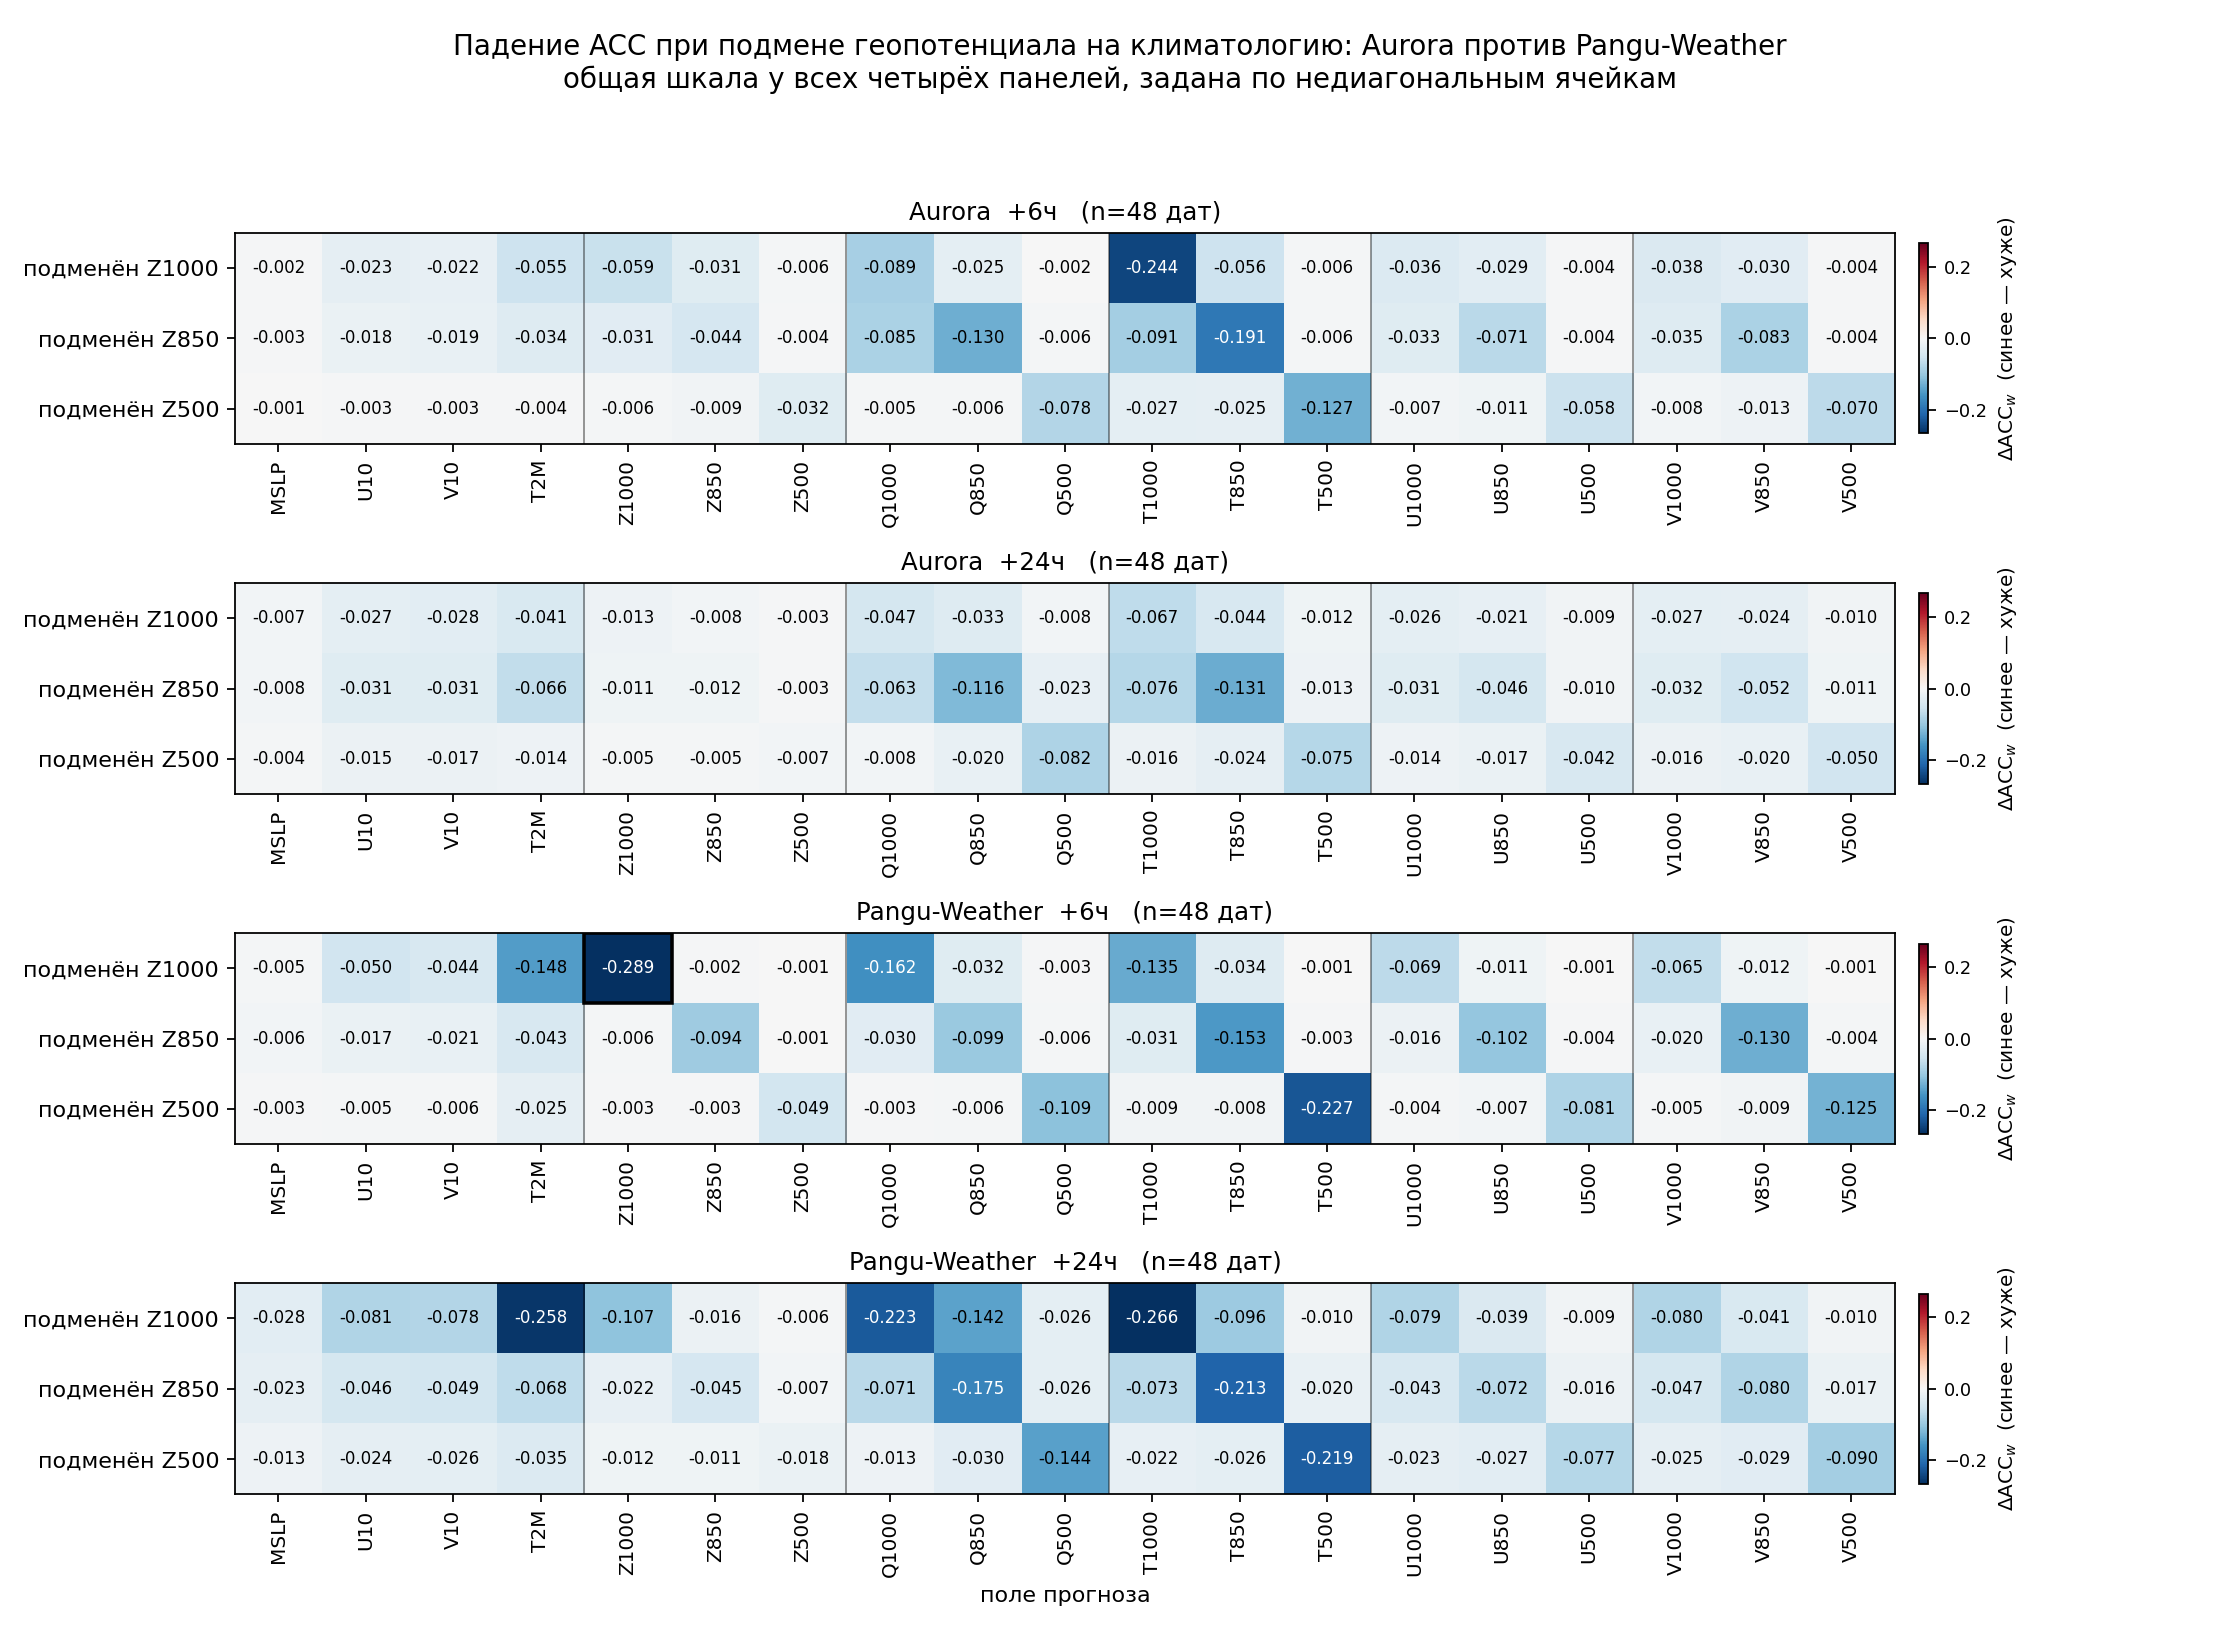
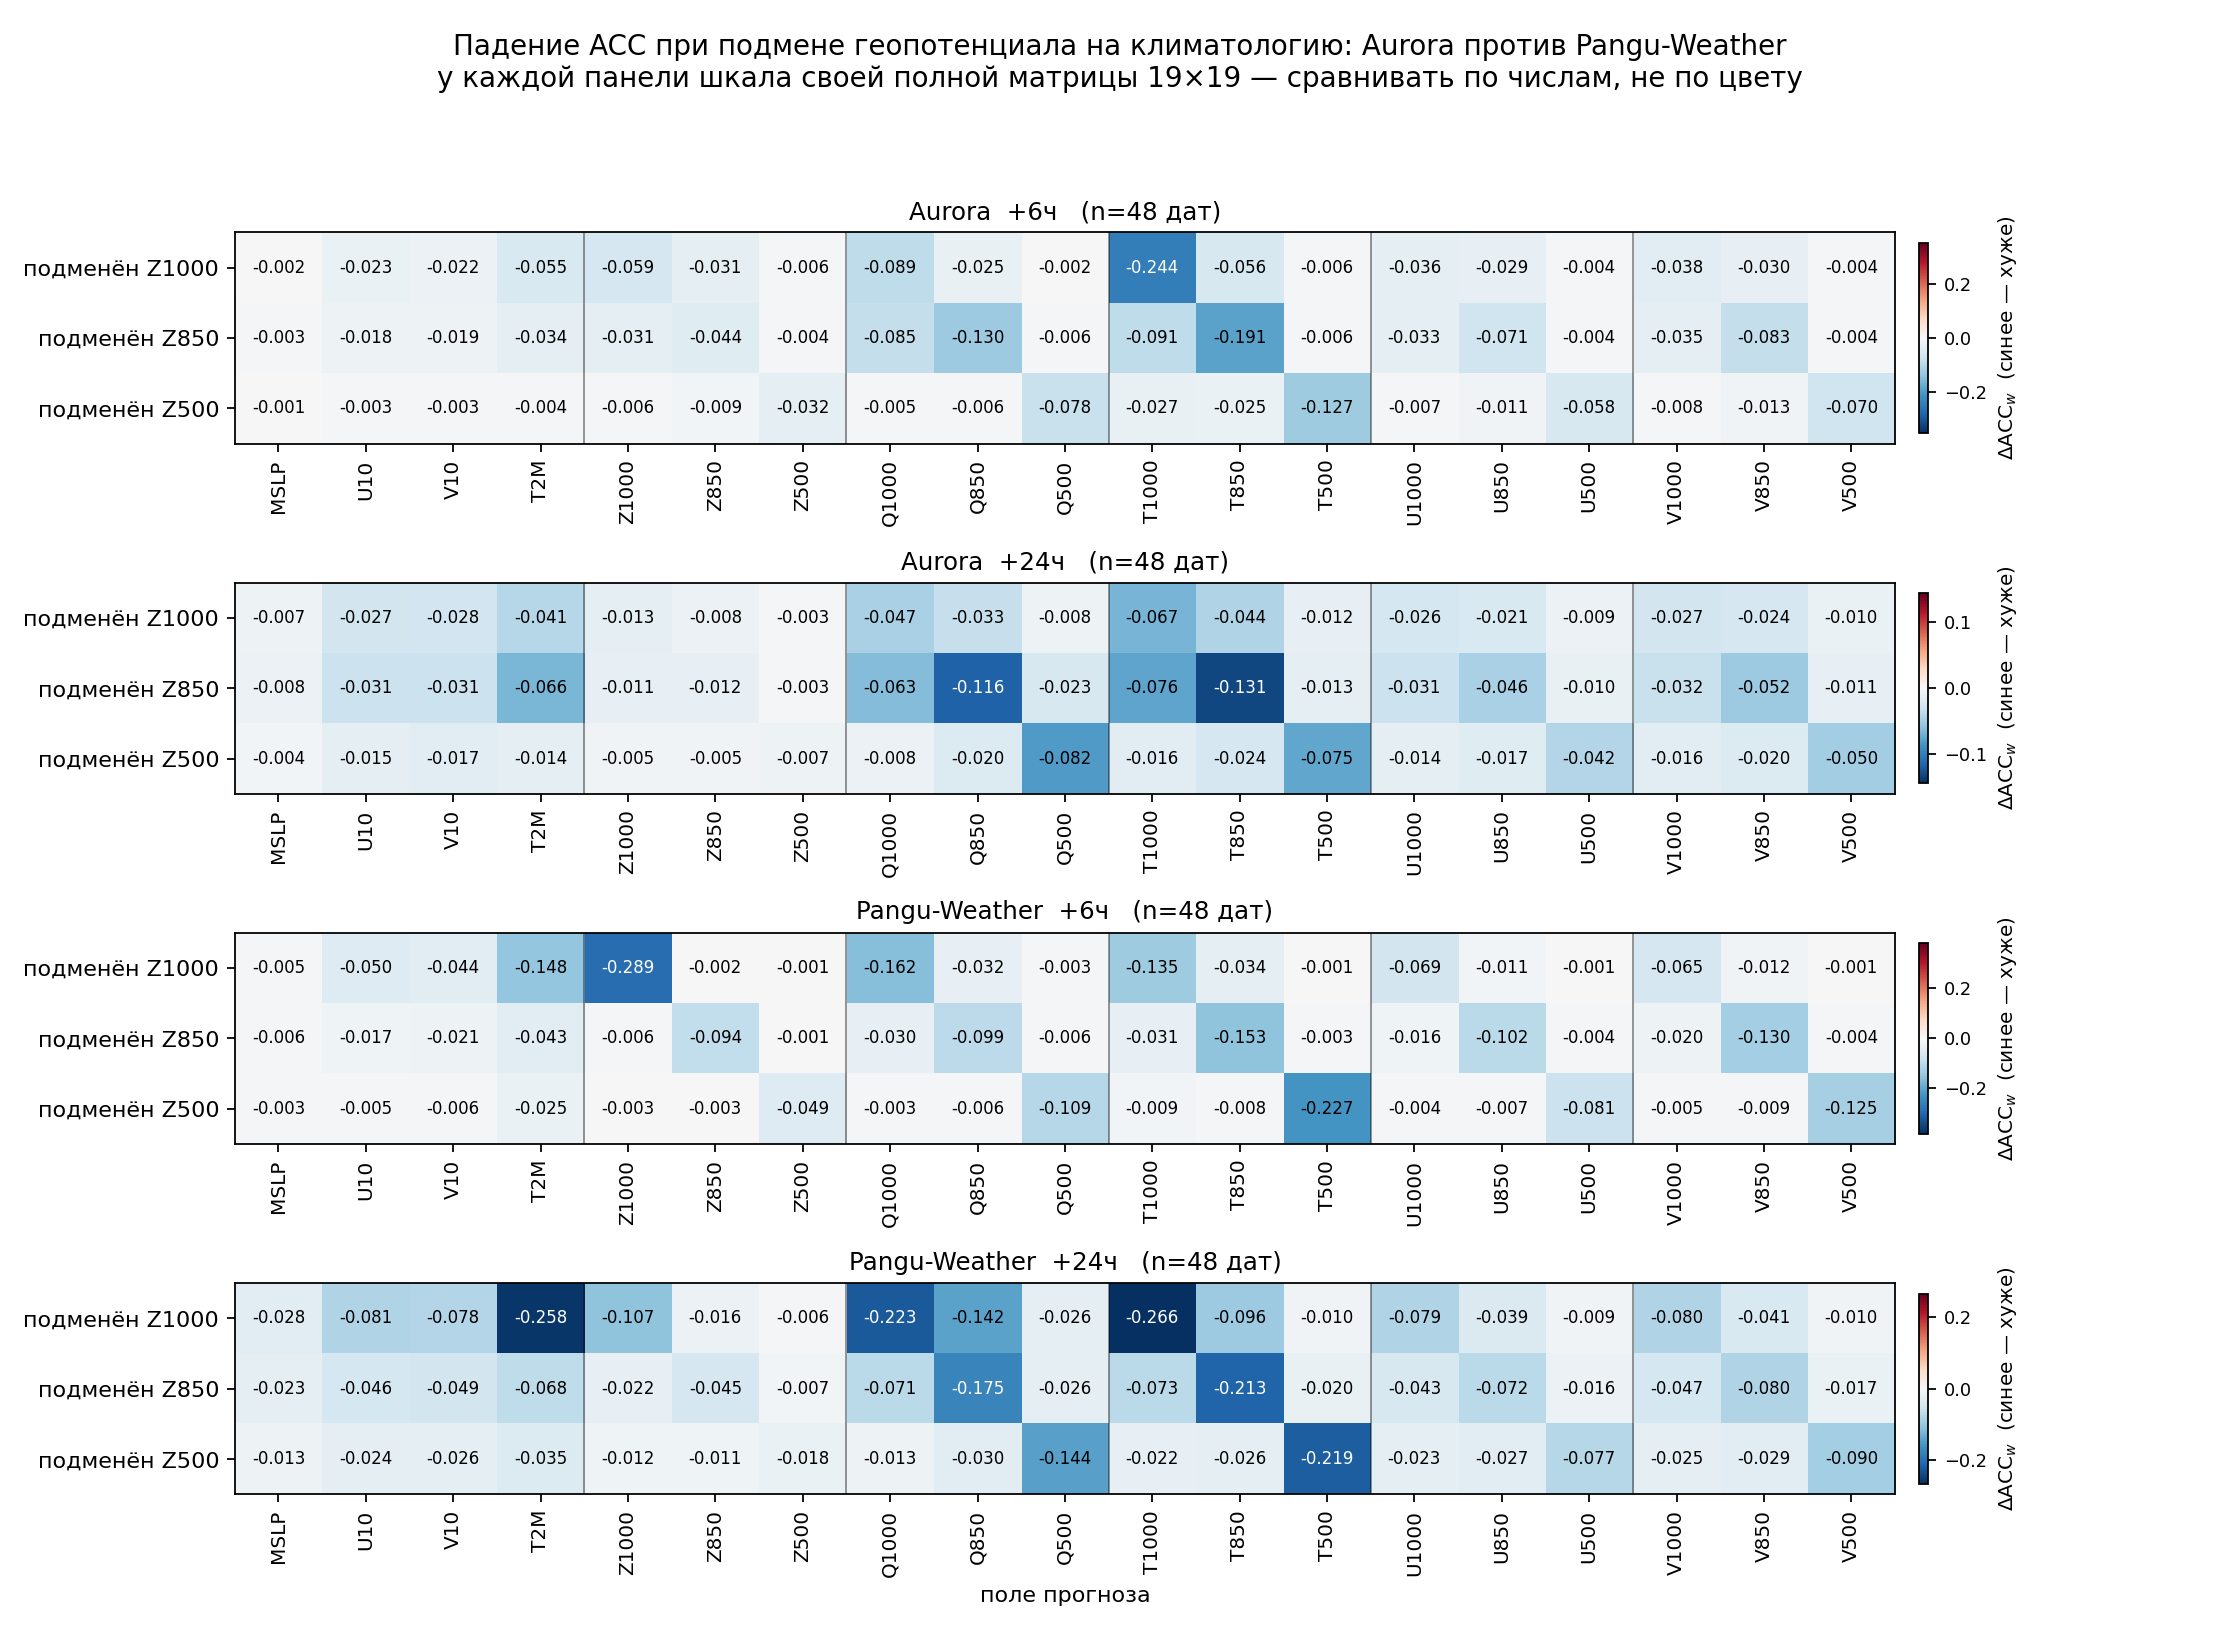
acc strip: keep the colour scale of the parent 19x19 matrix
The strip previously rescaled to its own three rows, which broke cell-for-cell comparison
with the full matrix it is cut from.  It now takes v = max|dACC| over the whole 19x19 for
that model and lead, exactly as compute_19var_matrix.py does, so the two figures can be read
against each other.  Nothing clips any more, so the saturation outlines are gone.

diff --git a/plots/plot_acc_strip.py b/plots/plot_acc_strip.py
@@ -3,17 +3,17 @@
     plot_acc_strip.py [aurora|pangu|both]
 
 The full matrix (analysis/compute_19var_matrix.py) sets its colour scale from the strongest
-row, which is MSLP; the Z1000/Z850/Z500 rows end up nearly white and unreadable.  This script
-extracts those three rows and rescales the colour to them, so the figure can go into the text
-on its own.
+row, which is MSLP.  This script extracts the three geopotential rows so they can go into the
+text on their own, KEEPING that same scale, so the strip and its parent figure are directly
+comparable cell for cell.
 
 Same convention as the parent figure: rows = the patched input field, columns = the forecast
 field, values = ACC_w(patched) - ACC_w(baseline), diverging RdBu_r on a symmetric scale.
 
-The scale is set from the OFF-DIAGONAL cells only.  The self-effect cells (patch Z1000, look
-at Z1000) are an order of magnitude larger and would flatten everything else -- the whole
-point of the extraction.  They are allowed to saturate and get a black outline to mark that
-their colour is clipped; the printed number is still exact.
+The scale is v = max|dACC| over the FULL 19x19 matrix for that model and lead, exactly as the
+parent computes it.  Nothing is clipped, so no cell is outlined.  The trade-off is that the
+geopotential rows stay pale -- the MSLP row sets the limit -- so read the numbers, not the
+colour, when comparing weak cells.
 """
 import os
 import sys
@@ -70,15 +70,11 @@ def draw(ax, mat, title, v):
     cb.ax.tick_params(labelsize=8)
 
 
-def scale(mats):
-    """symmetric limit from the off-diagonal cells of all panels that share the colour bar"""
-    vals = []
-    for m in mats:
-        for i, r in enumerate(ROWS):
-            for j, c in enumerate(NAMES):
-                if c != r and np.isfinite(m[i, j]):
-                    vals.append(abs(m[i, j]))
-    return float(np.max(vals))
+def parent_scale(df, lead):
+    """the symmetric limit the full 19x19 figure uses: max|dACC| over every row"""
+    full = (df[df.lead == lead].groupby(['patched', 'output'])['dacc_w'].mean()
+            .unstack().reindex(index=NAMES, columns=NAMES).values)
+    return float(np.nanmax(np.abs(full)))
 
 
 data = {m: pd.read_pickle(p) for m, p in PKL.items()
@@ -88,14 +84,12 @@ print({m: f'{k} дат' for m, k in n.items()}, flush=True)
 
 # one figure per model, both leads stacked
 for m, df in data.items():
-    mats = [matrix(df, L) for L in LEADS]
-    v = scale(mats)
     fig, axes = plt.subplots(2, 1, figsize=(14, 5.4))
-    for ax, L, mat in zip(axes, LEADS, mats):
-        draw(ax, mat, f'{TITLE[m]}  +{L}ч   (n={n[m]} дат)', v)
+    for ax, L in zip(axes, LEADS):
+        draw(ax, matrix(df, L), f'{TITLE[m]}  +{L}ч   (n={n[m]} дат)', parent_scale(df, L))
     axes[-1].set_xlabel('поле прогноза', fontsize=10)
     fig.suptitle(f'{TITLE[m]}: падение ACC при подмене геопотенциала на климатологию\n'
-                 f'шкала задана по недиагональным ячейкам; ячейки в рамке выходят за неё',
+                 f'шкала та же, что у полной матрицы 19×19 (её задаёт строка MSLP)',
                  fontsize=12)
     plt.tight_layout(rect=[0, 0, 1, 0.90])
     out = f'{FIG_DIR}/acc_strip_Z_{m}_n{n[m]}.png'
@@ -105,15 +99,15 @@ for m, df in data.items():
 
 # combined: both models, both leads, one shared scale
 if len(data) == 2:
-    panels = [(m, L, matrix(data[m], L)) for m in ('aurora', 'pangu') for L in LEADS]
-    v = scale([p[2] for p in panels])
+    panels = [(m, L) for m in ('aurora', 'pangu') for L in LEADS]
     fig, axes = plt.subplots(4, 1, figsize=(14, 10.2))
-    for ax, (m, L, mat) in zip(axes, panels):
-        draw(ax, mat, f'{TITLE[m]}  +{L}ч   (n={n[m]} дат)', v)
+    for ax, (m, L) in zip(axes, panels):
+        draw(ax, matrix(data[m], L), f'{TITLE[m]}  +{L}ч   (n={n[m]} дат)',
+             parent_scale(data[m], L))
     axes[-1].set_xlabel('поле прогноза', fontsize=10)
     fig.suptitle('Падение ACC при подмене геопотенциала на климатологию: Aurora против '
-                 'Pangu-Weather\nобщая шкала у всех четырёх панелей, задана по '
-                 'недиагональным ячейкам', fontsize=12.5)
+                 'Pangu-Weather\nу каждой панели шкала своей полной матрицы 19×19 — '
+                 'сравнивать по числам, не по цвету', fontsize=12.5)
     plt.tight_layout(rect=[0, 0, 1, 0.945])
     out = f'{FIG_DIR}/acc_strip_Z_both_n48.png'
     plt.savefig(out, dpi=160)
